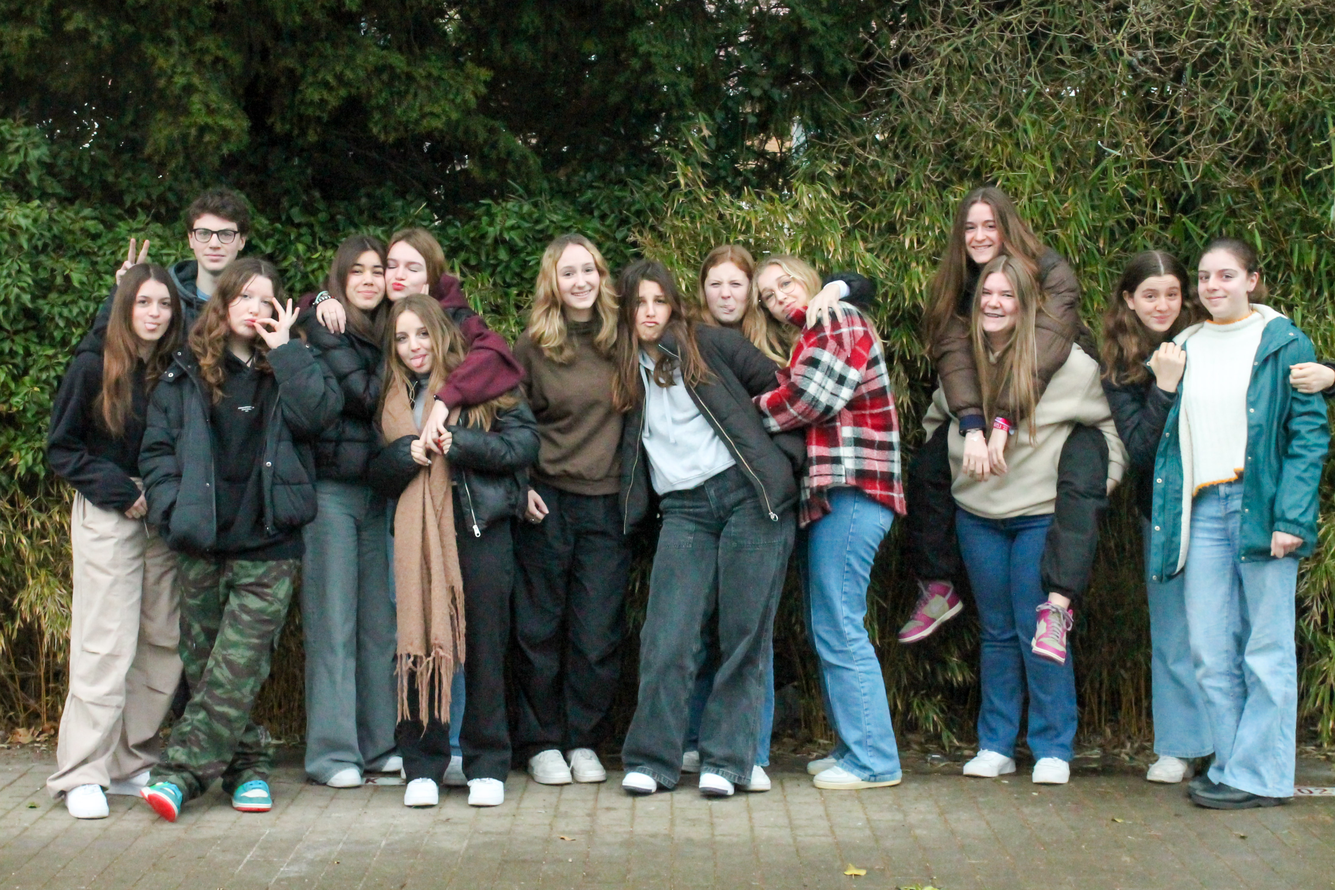
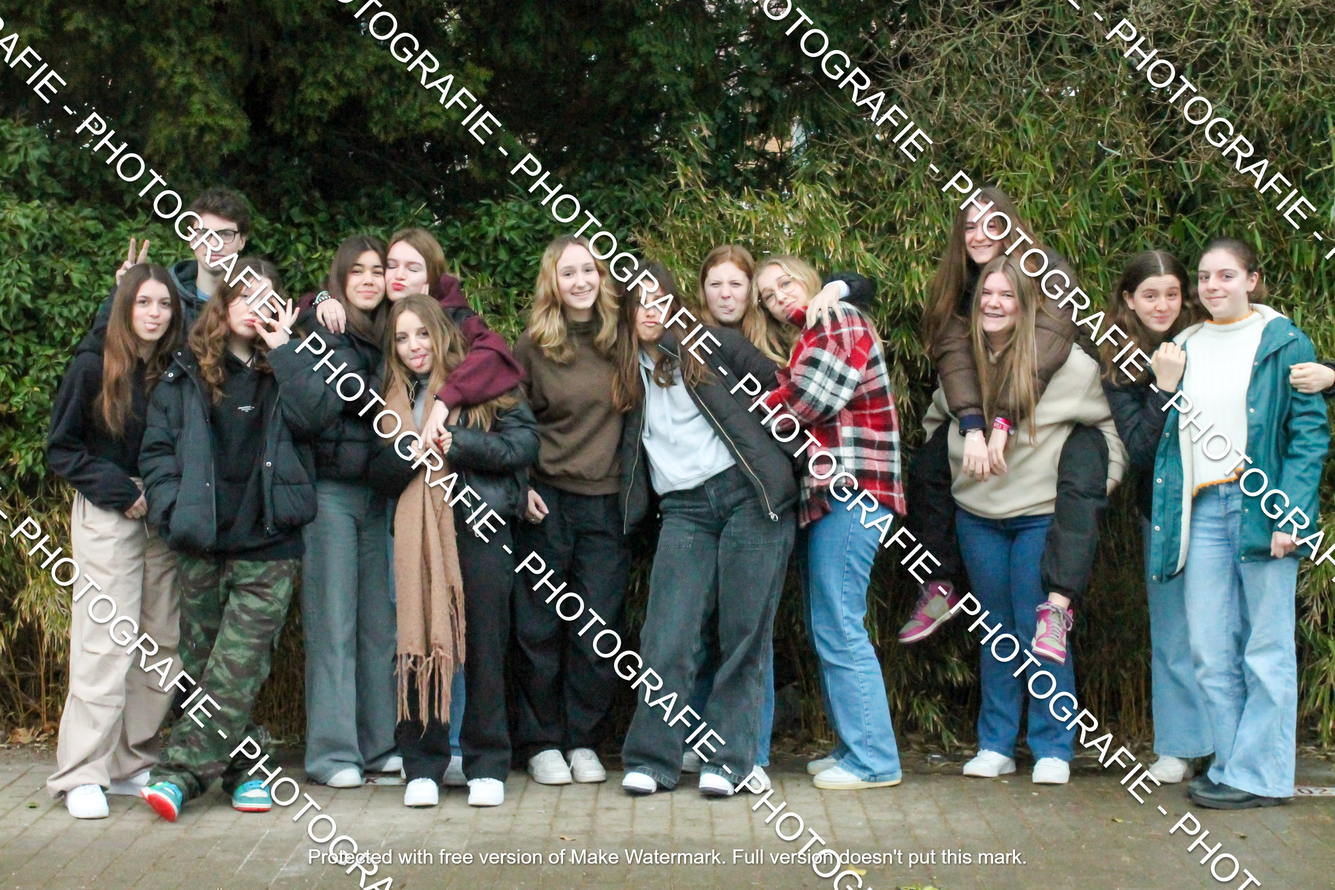
watermark toegevoegd

diff --git a/css/main.css b/css/main.css
@@ -1,5 +1,5 @@
 nav{
-    background-color: blue;
+    background-color: rgb(60, 226, 211);;
     margin: 0px;
     padding: 3px;
 }
@@ -45,4 +45,8 @@ footer{
 }
 footer img{
     width: 125px;
+}
+h1{
+    text-align: center;
+    color: rgb(197, 7, 81);
 }

diff --git a/winkelMandje.php b/winkelMandje.php
@@ -28,6 +28,8 @@
     <head>
         <link rel="stylesheet" href="css/main.css">
         <link rel="stylesheet" href="css/winkelMandje.css">
+        <link rel="icon" href="foto's/custom_foto's/gosnapit.png">
+        <title>WINKELMANDJE</title>
     </head>
     <body>
         <nav>
@@ -35,30 +37,37 @@
             <a href="photos.php"><p>PHOTO'S</p></a>
             <a href="winkelMandje.php"><img src="foto's/custom_foto's/winkelMandje.png"><p id="counter"><?php echo $counter ?></p></a> 
         </nav>
-        <div id="tableDiv">
-            <table>
-                <tr class="header">
-                    <td><p>Item</p></td>
-                    <td><p>Prijs</p></td> 
-                </tr>
-                <?php $prijs = 0; ?>
-                <?php foreach($_SESSION["items"] as $index =>$item): ?>
-                    <tr >
-                        <td style="background-color: <?php if($index/2 == 0){ echo "darkgray";}else{ echo "gray";} ?>;"><p><?php echo ($item); ?></p></td>
-                        <td style="background-color: <?php if($index/2 == 0){ echo "darkgray";}else{ echo "gray";} ?>;"><p><?php if(strrpos($item,"PAKKET")){ echo "€5,50"; $prijs = $prijs+5.5; } else{echo "€3,50"; $prijs = $prijs+3.5;} ?></p></td>
-                        <form method="post"><td style="background-color: transparent; cursor:grab;"><button onclick="this.form.submit()" style="background-color: transparent; color:transparent; border:none;"><img class="trash" src="foto's/custom_foto's/trashBin.png"></button><input type="text" name="row" value="<?php echo $index  ?>" class="invisible"></td></form>
+        <?php if($counter != 0): ?>
+            <div id="tableDiv">
+                <table>
+                    <tr class="header">
+                        <td><p>Item</p></td>
+                        <td><p>Prijs</p></td> 
                     </tr>
-                <?php endforeach; ?>
-                <tr>
-                    <td style="background-color:red;"><p>TOTAAL</p></td>
-                    <td style="background-color:darkred;"><p><?php echo '€'.$prijs; ?></p></td>
-                </tr>
-                <tr style="background-color: transparen;">
-                    <td></td>
-                    <form method="post"><td><input type="submit" name="betalen" value="BETALEN"></td></form>
-                </tr>
-            </table>
-        </div>
+                    <?php $prijs = 0; ?>
+                    <?php foreach($_SESSION["items"] as $index =>$item): ?>
+                        <tr >
+                            <td style="background-color: <?php if($index%2 == 0){ echo "darkgray";}else{ echo "gray";} ?>;"><p><?php echo ($item); ?></p></td>
+                            <td style="background-color: <?php if($index%2 == 0){ echo "darkgray";}else{ echo "gray";} ?>;"><p><?php if(strrpos($item,"PAKKET")){ echo "€5,50"; $prijs = $prijs+5.5; } else{echo "€3,50"; $prijs = $prijs+3.5;} ?></p></td>
+                            <form method="post"><td style="background-color: transparent; cursor:grab;"><button onclick="this.form.submit()" style="background-color: transparent; color:transparent; border:none;"><img class="trash" src="foto's/custom_foto's/trashBin.png"></button><input type="text" name="row" value="<?php echo $index  ?>" class="invisible"></td></form>
+                        </tr>
+                    <?php endforeach; ?>
+                    <tr>
+                        <td style="background-color:red;"><p>TOTAAL</p></td>
+                        <td style="background-color:darkred;"><p><?php echo '€'.$prijs; ?></p></td>
+                    </tr>
+                    <tr style="background-color: transparen;">
+                        <td></td>
+                        <form method="post"><td><input type="submit" name="betalen" value="BETALEN"></td></form>
+                    </tr>
+                </table>
+            </div>
+        <?php else:?>
+            <br>
+            <h1>SORRY</h1>
+            <h1>U WINKELMANDJE IS LEEG</h1>
+            <h1>:(</h1>
+        <?php endif; ?>
         <footer><img src="foto's/custom_foto's//button_onder_toezicht_van_Vlajovzw_HR.jpg" ></footer>
     </body>
     <script>

diff --git a/index.php b/index.php
@@ -6,6 +6,8 @@
     <head>
         <link rel="stylesheet" href="css/index.css">
         <link rel="stylesheet" href="css/main.css">
+        <link rel="icon" href="foto's/custom_foto's/gosnapit.png">
+        <title>HOME PAGE</title>
     </head>
     <body>
         <nav>
@@ -13,7 +15,8 @@
             <a href="photos.php"><p>PHOTO'S</p></a>
             <a href="winkelMandje.php"><img src="foto's/custom_foto's/winkelMandje.png"><p id="counter"><?php echo $counter ?></p></a> 
         </nav>
-        <h1></h1>
+        <h1>PHOTOGRAFIE</h1>
+        <p>Wij zijn een studentenonderneming die met behulp van Vlajo en het go-atheneum onze verkoop van de klassen foto's kan waar maken.</p>
         <footer><img src="foto's/custom_foto's//button_onder_toezicht_van_Vlajovzw_HR.jpg" ></footer>
     </body>
 </html>

diff --git a/photos.php b/photos.php
@@ -43,6 +43,8 @@
     <head>
         <link rel="stylesheet" href="css/main.css">
         <link rel="stylesheet" href="css/photos.css">
+        <link rel="icon" href="foto's/custom_foto's/gosnapit.png">
+        <title>PHOTO'S</title>
     </head>
     <body>
         <nav>
